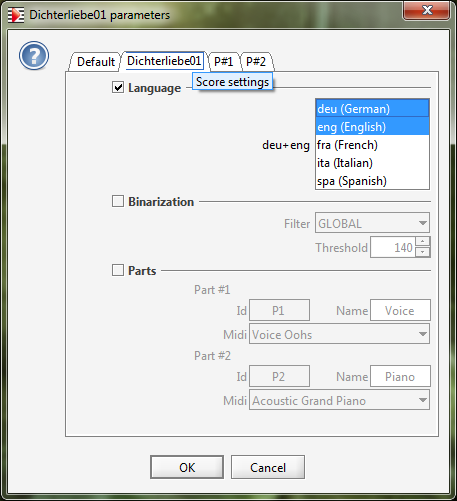
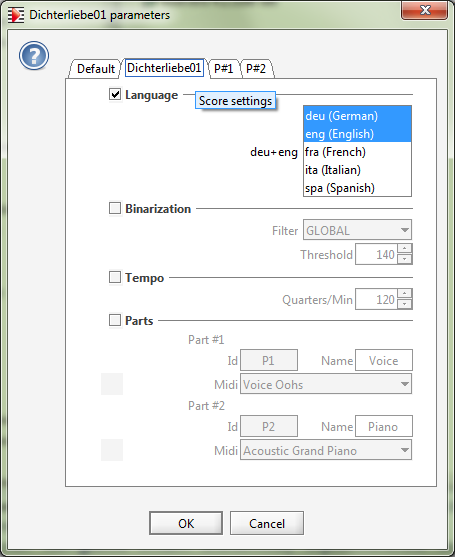
Documentation: Final updates for official 4.2 release

diff --git a/www/docs/manual/handbook.html b/www/docs/manual/handbook.html
@@ -204,8 +204,9 @@
                              src="../images/java-requirement.png" />
                         <strong>Java check:</strong>
                         <p>
-                            Audiveris installation will complete with the Java runtime
-                            (JRE) check performed at launch time.
+                            Audiveris installation will complete with the Java 
+                            Runtime Environment (JRE) check performed at launch 
+                            time.
                         </p>
                         <p>
                             Java 7 is the required JRE as of this writing. 
@@ -723,7 +724,7 @@ OpenJDK 64-Bit Server VM (build 23.2-b09, mixed mode)</pre>
                     <h4 id="main-window-layout">
                         Main window layout
                     </h4>
-                    <img class="right" width="650" height="520" 
+                    <img class="right" width="629" height="481" 
                          src="../images/chula-score.png"
                          alt="score" title="Application main window"/>
                     <p>
@@ -1265,12 +1266,15 @@ OpenJDK 64-Bit Server VM (build 23.2-b09, mixed mode)</pre>
                         application runs)
                     </p>
                     <dl>
-                        <dt>Text</dt>
+                        <dt>Language</dt>
                         <dd>Define the specification of dominant languages for OCR'ed 
                             text (note that you can select several languages)</dd>
                         <dt>Binarization</dt>
                         <dd>Select the kind of filter (global or adaptive) and adjust
                             the related values.</dd>
+                        <dt>Tempo</dt>
+                        <dd>Define the default tempo in number of quarters per 
+                            minute.</dd>
                         <dt>Drag n' Drop</dt>
                         <dd>Define the default step to be performed when an
                             image file is dropped on the application window</dd>
@@ -1320,18 +1324,18 @@ OpenJDK 64-Bit Server VM (build 23.2-b09, mixed mode)</pre>
                     <h4 id="errors-window">
                         Errors window
                     </h4>
-                    <p>The <code>PAGES</code> and <code>SCORE</code> steps are able to 
-                        detect possible errors and sometimes to correct them
-                        automatically.
-                        Remaining errors are displayed in the error window located at
-                        the bottom of the main window.</p>
+                    <p>Several steps are able to detect possible errors and 
+                        sometimes to correct them automatically.
+                        Remaining errors are displayed in the error window 
+                        located at the bottom of the main window.</p>
                     <img class="side" title="Errors window" alt="errors-window"
                          width="356" height="99"
                          src="../images/errors-window.png" />
                     <p>The picture next to this paragraph presents the content of this 
                         window after running <code>SCORE</code> on the example image.
-                        If the windows is not displayed, make sure to open it through 
-                        menu <code>Views</code> | <code>Display errors window</code>.
+                        If the error window is not displayed, make sure to open
+                        it through menu <code>Views</code> | <code>Display 
+                            errors window</code>.
                     </p>
                     <p>The errors list is sorted, and every error message begins 
                         with a context indication.
@@ -1630,14 +1634,23 @@ OpenJDK 64-Bit Server VM (build 23.2-b09, mixed mode)</pre>
 
                 <article id="whole-examples">
                     <h3>
-                        Whole examples
+                        Wiki on whole examples
                     </h3>
+                    <p>
+                        A <a href="http://kenai.com/projects/audiveris/pages/Home">
+                            Wiki</a> is available online to document
+                        the use and evolution of Audiveris software.
+                    </p>
                     <p>
                         Audiveris is installed with a hand-full of typical 
                         input files located in the <code>examples</code> folder
                         of program installation directory.
                         Almost all pictures used in this handbook are snapshots
                         of these examples.
+                        The processing of these simple examples is documented 
+                        in this 
+                        <a href="http://kenai.com/projects/audiveris/pages/SimpleExamples">
+                            Wiki page</a>.
                     </p>
                     <p>
                         Another source of examples is the online repository of
@@ -1655,9 +1668,9 @@ OpenJDK 64-Bit Server VM (build 23.2-b09, mixed mode)</pre>
                         examples with as good results as possible, even if some
                         manual processing was still necessary.
                         The detailed processing of each of these examples is 
-                        documented in the dedicated online 
+                        documented in the dedicated  
                         <a href="http://kenai.com/projects/audiveris/pages/RecordareExamples">
-                            Audiveris Wiki page</a>.
+                            Wiki page</a>.
                         Browsing this Wiki should give you a more realistic view
                         of concrete Audiveris processing and manual interactions.
                     </p>
@@ -1700,11 +1713,11 @@ OpenJDK 64-Bit Server VM (build 23.2-b09, mixed mode)</pre>
                                 you through 3 steps:
                             </p>
                             <ol>
-                                <li>In the "Mercurial Repository" step, set the
+                                <li>In the <q>Mercurial Repository</q> step, set the
                                     Repository URL to the Kenai address 
                                     <code>https://hg.kenai.com/hg/audiveris~hg</code></li>
-                                <li>In the "Mercurial Paths" step, you can keep the proposed paths</li>
-                                <li>In the "Destination Directory" step, select
+                                <li>In the <q>Mercurial Paths</q> step, you can keep the proposed paths</li>
+                                <li>In the <q>Destination Directory</q> step, select
                                     the Parent Directory and the Clone Name of
                                     your choice, for example "audiveris~hg"</li>
                             </ol>
@@ -1839,9 +1852,10 @@ Known step names are in order (non case-sensitive):
    PLUGIN      : Launch the default plugin (MuseScore)
                     </textarea>
 
-                    <p>You can also use the executables named <code>audiveris.exe</code>
-                        or <code>audiveris-console.exe</code> which are just wrappers 
-                        around the <code>java</code> command.
+                    <p>On Windows, you can also use the executables named
+                        <code>audiveris.exe</code> or 
+                        <code>audiveris-console.exe</code> which are just 
+                        wrappers around the <code>java</code> command.
                         This command line syntax is also correct: 
                         <code>audiveris.exe [parameters*]</code>, it takes the JVM 
                         options declared in the related file 
@@ -1854,8 +1868,9 @@ Known step names are in order (non case-sensitive):
                         <dt>-batch</dt>
                         <dd>Launches Audiveris without any Graphic User Interface.</dd>
                         <dt>-step (STEPNAME | @STEPLIST)+</dt>
-                        <dd>Performs all the specified steps (including the steps which
-                            are mandatory to get to the specified ones).
+                        <dd>Performs all the specified steps (automatically
+                            including the steps which are mandatory to get to 
+                            the specified ones).
                             <br>
                             'STEPNAME' can be any one of the step names (the case is
                             irrelevant).
@@ -2272,9 +2287,12 @@ function <code title="Function to implement"><b>pluginCli</b></code>(exportFileP
                          title="User Interface to train the evaluator"  />
                     <dl>
                         <dt>Selection</dt>
-                        <dd>This panel is in charge of selecting and loading the glyph 
-                            XML files, as stored from the predefined symbols and from
-                            previous sheet recognitions.
+                        <dd>
+                            <p>
+                                This panel is in charge of selecting and loading the glyph 
+                                XML files, as stored from the predefined symbols and from
+                                previous sheet recognitions.
+                            </p>
                             <p>
                                 Use the <code class="button">Select Core</code>
                                 button when you want to identify a 
@@ -2284,12 +2302,15 @@ function <code title="Function to implement"><b>pluginCli</b></code>(exportFileP
                                 and repopulated by the core selected glyph files.
                             </p>
                         <dt>Neural Training</dt>
-                        <dd>Here we launch and monitor the training of the neural 
-                            network.
-                            <br/>
-                            On the left, radio buttons allow to select either the 
-                            <code class="button">Whole</code> base (default option) or the 
-                            <code class="button">Core</code> base.
+                        <dd>
+                            <p>
+                                Here we launch and monitor the training of the neural 
+                                network.
+                                <br/>
+                                On the left, radio buttons allow to select either the 
+                                <code class="button">Whole</code> base (default option) or the 
+                                <code class="button">Core</code> base.
+                            </p>
                             <p>The main decision is to choose between a 
                                 <code class="button">Re-Train</code>, which consists in retraining from
                                 scratch, or only an <code class="button">Inc-Train</code>, which works
@@ -2313,11 +2334,14 @@ function <code title="Function to implement"><b>pluginCli</b></code>(exportFileP
                         </dd>
 
                         <dt>Validation</dt>
-                        <dd>At any time, even while the neural network is being trained,
-                            you can test the evaluator against the selected population 
-                            (either the Whole base, or the Core base, according to the
-                            selection made via the radio buttons. Note that we can train
-                            and validate on different bases).
+                        <dd>
+                            <p>
+                                At any time, even while the neural network is being trained,
+                                you can test the evaluator against the selected population 
+                                (either the Whole base, or the Core base, according to the
+                                selection made via the radio buttons. Note that we can train
+                                and validate on different bases).
+                            </p>
                             <p>
                                 The samples which are either not recognized or (worse) 
                                 mistaken for another shape are pointed out.
@@ -2328,8 +2352,12 @@ function <code title="Function to implement"><b>pluginCli</b></code>(exportFileP
                         </dd>
 
                         <dt>Regression Training</dt>
-                        <dd>This allows to compute the parameters of a linear evaluator,
-                            which is less and less used. You can safely ignore this.</dd>
+                        <dd>
+                            <p>
+                                This allows to compute the parameters of a linear evaluator,
+                                which is less and less used. You can safely ignore this.
+                            </p>
+                        </dd>
                     </dl>
                 </article>
             </section>
@@ -2562,13 +2590,15 @@ function <code title="Function to implement"><b>pluginCli</b></code>(exportFileP
                     <p>
                         You can still manually modify the border, by starting a boundary
                         edition session via the (right-click) context menu
-                        <code>Boundaries...</code> | <code>Start</code>.
+                        <code>Boundaries...</code> | <code>Start edition</code>.
                         The broken lines of all boundaries are highlighted in red color.
                         With the mouse, you can adjust the border by simply dragging the
                         lines and points.
+                        An intermediate point is automatically removed when
+                        it gets aligned with the previous and the next point.
                         When you are done, end the session by 
-                        <code>Boundaries...</code> | <code>Complete</code> so that
-                        modifications are immediately taken into account.
+                        <code>Boundaries...</code> | <code>Complete edition</code> so that
+                        modifications get immediately taken into account.
                     </p>
                 </article>
 

diff --git a/www/docs/manual/releases.html b/www/docs/manual/releases.html
@@ -137,7 +137,7 @@
                 <div class="expandable">
 
                     <div class="date">
-                        xx-Nov-2012
+                        7-Dec-2012
                     </div>
                     <div class="label">
                         Introduction
@@ -267,6 +267,16 @@
                                 of the current release.
                                 The former installation tab is now merged with the
                                 first chapter of the handbook.
+                            </li>
+                            <li>
+                                <b>Wiki:</b> The online Audiveris Wiki contains
+                                detailed documentation about how to process each
+                                score of the set of examples available on
+                                <a href="http://www.makemusic.com/musicxml/music/example-set">
+                                    MakeMusic/Recordare site</a>.
+                                It is also used to gather information about
+                                evolutions being considered for Audiveris 
+                                software.
                             </li>
                         </ul>
                     </div>

diff --git a/www/index.html b/www/index.html
@@ -89,8 +89,8 @@
             <article id="news">
                 <h2>News</h2>
                 <ul>
-                    <li><a href="docs/manual/releases.html">V4.2 release</a>
-                        <div class="creation-date">November xx, 2012</div>
+                    <li><a href="docs/manual/releases.html">V4.2 just released</a>
+                        <div class="creation-date">December 7, 2012</div>
                     </li>
                     <li><a href="docs/manual/AudiverisFosdem2012.v3.pdf">Presentation at FOSDEM 2012</a>
                         <div class="creation-date">January 11, 2012</div>
@@ -155,7 +155,9 @@
                     <li>Text OCR extended to musical symbols?</li>
                     <li>Support for low-quality scans?</li>
                 </ul>
-                Please share your expectations on Audiveris 
+                See details on dedicated
+                <a href="http://kenai.com/projects/audiveris/pages/Home">Wiki</a>
+                and share your expectations on Audiveris 
                 <a href="http://kenai.com/projects/audiveris/forums/message-forum">forum</a>!
             </article>
         </section>       
